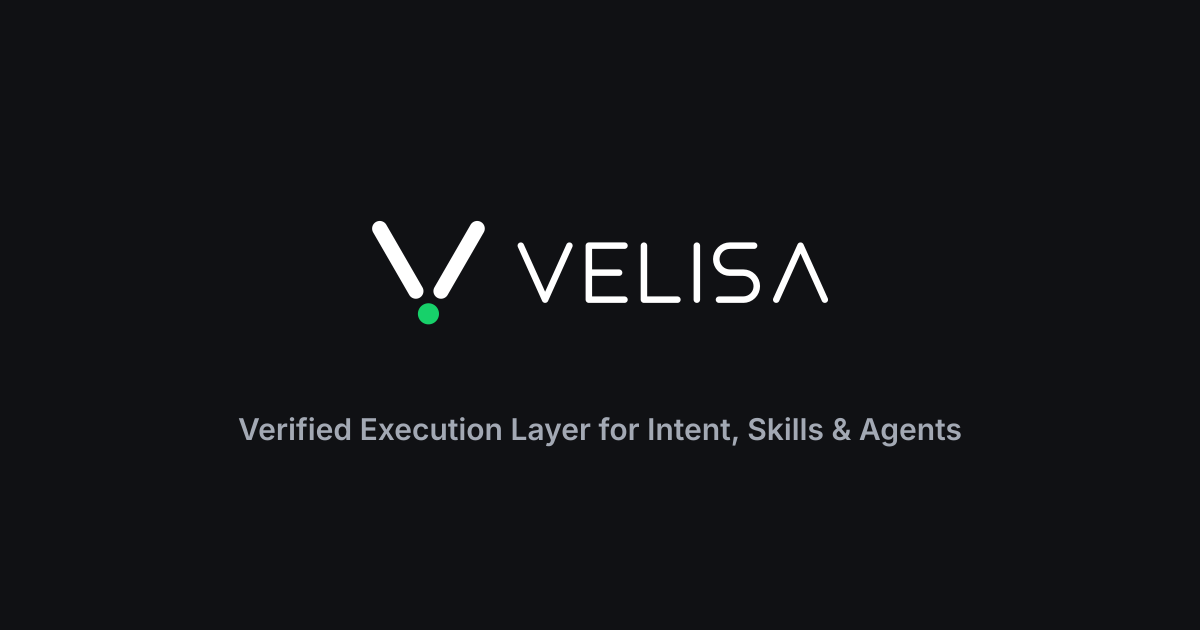
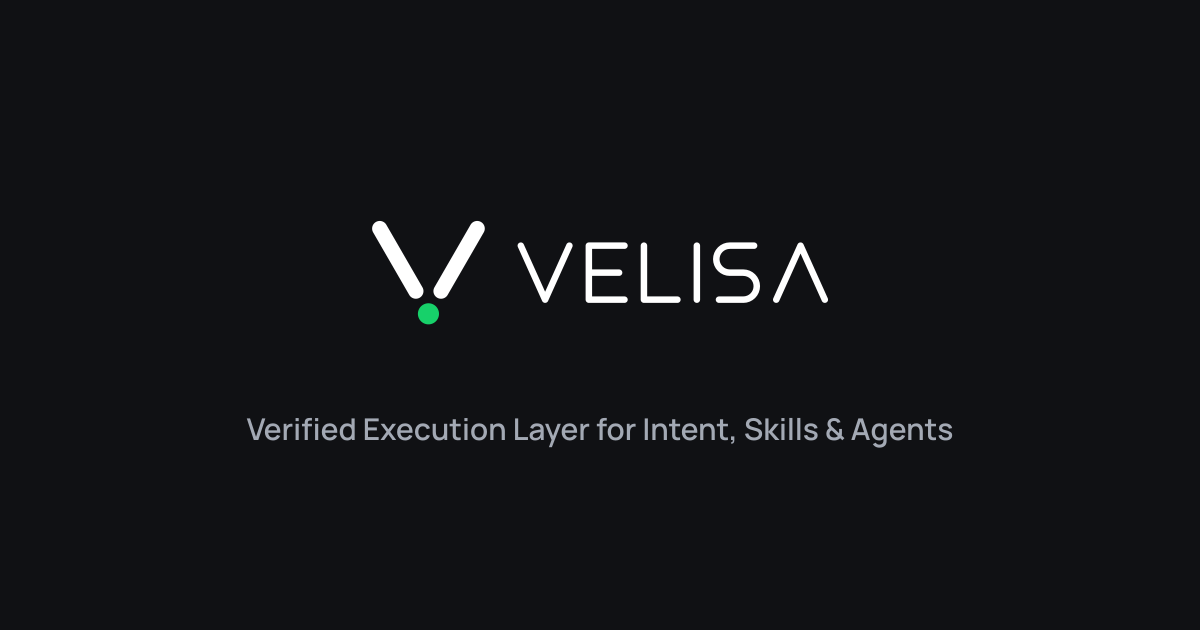
brand: GitHub social preview; share image redrawn in Manrope
- brand/velisa/velisa-social-preview.png (1280x640, 52 KB) and its .svg source,
  for Settings -> Social preview
- site/brand/og.png: the tagline was drawn in a fallback face; now Manrope,
  the landing page's font

Claude-Session: https://claude.ai/code/session_01Gt7kNcGE8LB1DXm61g7oj5

Changed region(s): [[0.185, 0.6635, 0.8017, 0.7238]]

diff --git a/brand/velisa/BRAND.md b/brand/velisa/BRAND.md
@@ -38,6 +38,7 @@ svg/  velisa-symbol(.svg|-on-dark|-black|-white|-small|-small-on-dark)
       velisa-horizontal(-on-dark|-black|-white)  velisa-stacked(-on-dark)
       velisa-wordmark(-white)  velisa-app-icon(-full)  velisa-readme-banner-(dark|light)
 png/  1200 px PNG of the main versions
+      velisa-social-preview.png (1280×640, GitHub Settings → Social preview; .svg source beside it)
 web/  favicon.svg (switches with dark mode) · favicon.ico · favicon-16/32/48.png
       apple-touch-icon.png · icon-192/512.png · maskable-512.png · site.webmanifest · head-snippet.html
 ```
